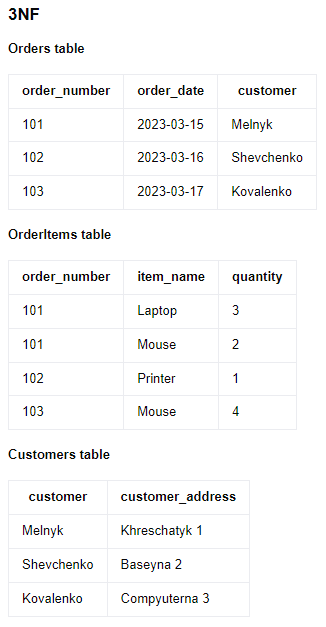
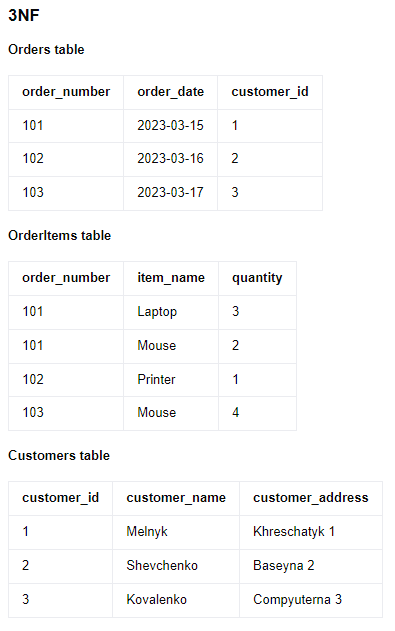
ref: updated customers table key

diff --git a/README.md b/README.md
@@ -41,11 +41,11 @@
 
 #### Orders table
 
-| order_number | order_date | customer   |
-|--------------|------------|------------|
-| 101          | 2023-03-15 | Melnyk     |
-| 102          | 2023-03-16 | Shevchenko |
-| 103          | 2023-03-17 | Kovalenko  |
+| order_number | order_date | customer_id |
+|--------------|------------|-------------|
+| 101          | 2023-03-15 | 1           |
+| 102          | 2023-03-16 | 2           |
+| 103          | 2023-03-17 | 3           |
 
 #### OrderItems table 
 
@@ -58,11 +58,11 @@
 
 #### Customers table
 
-| customer   | customer_address |
-|------------|------------------|
-| Melnyk     | Khreschatyk 1    |
-| Shevchenko | Baseyna 2        |
-| Kovalenko  | Compyuterna 3    |
+| customer_id | customer_name | customer_address |
+|-------------|---------------|------------------|
+| 1           | Melnyk        | Khreschatyk 1    |
+| 2           | Shevchenko    | Baseyna 2        |
+| 3           | Kovalenko     | Compyuterna 3    |
 
 ### ER Diagram
 
